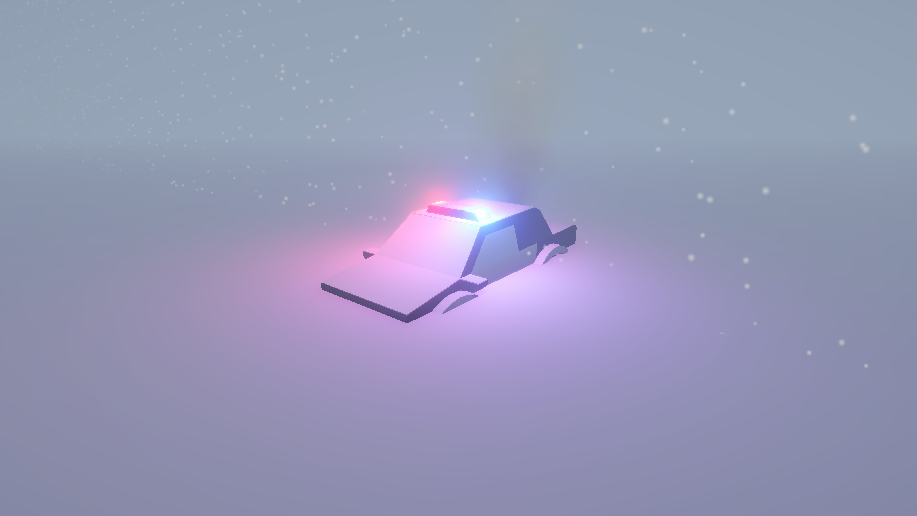
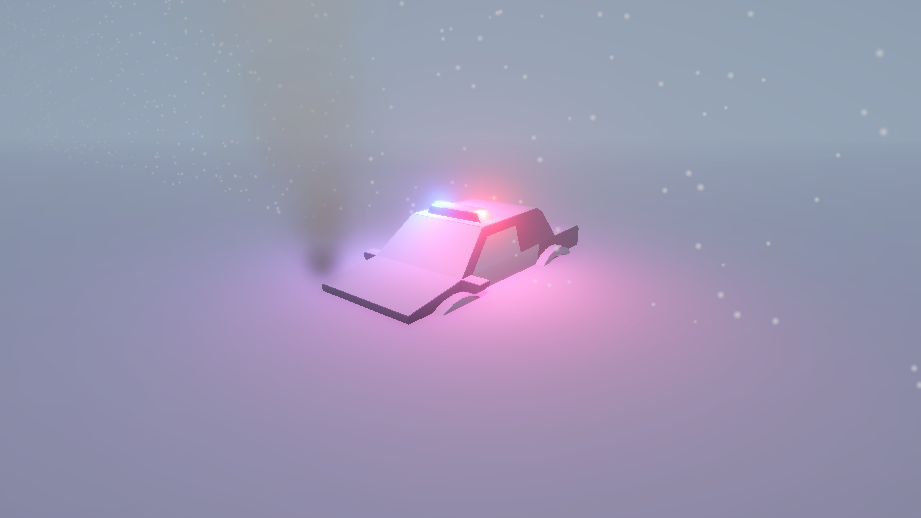
feat: humo del escape al frente y herramienta para ajustarlo
Mueve Exhaust_Smoke al morro (local Z positiva, el coche esta rotado 180) y anade Tools > Humo del escape con posicion, emision, vida, tamano, velocidad, gravedad, cono y presets.

Changed region(s): [[0.4275, 0.2791, 0.7023, 0.6822], [0.3053, 0.3411, 0.4275, 0.5581]]

diff --git a/Assets/Editor/SmokeTool.cs b/Assets/Editor/SmokeTool.cs
@@ -1,0 +1,208 @@
+using UnityEditor;
+using UnityEngine;
+
+/// <summary>
+/// Ventana para ajustar el humo del escape (Police_Car/Exhaust_Smoke) sin tener que
+/// buscar los modulos del ParticleSystem en el Inspector.
+/// Los cambios se ven en vivo en la Scene/Game y se guardan con Ctrl+S.
+/// </summary>
+public class SmokeTool : EditorWindow
+{
+    private const string SmokePath = "Police_Car/Exhaust_Smoke";
+
+    // Posicion local respecto a Police_Car
+    private Vector3 localPosition = new Vector3(0.5f, 0.95f, 1.9f);
+
+    // Modulo Main
+    private float lifetimeMin = 2.5f;
+    private float lifetimeMax = 4f;
+    private float sizeMin = 0.6f;
+    private float sizeMax = 1.2f;
+    private float speedMin = 0.2f;
+    private float speedMax = 0.6f;
+    private float gravity = -0.06f;
+    private Color startColor = Color.white;
+
+    // Emision
+    private float rateOverTime = 18f;
+
+    // Forma (cono)
+    private float coneAngle = 15f;
+    private float coneRadius = 0.08f;
+
+    private bool systemEnabled = true;
+    private string status = "";
+
+    [MenuItem("Tools/Humo del escape")]
+    public static void Open()
+    {
+        GetWindow<SmokeTool>("Humo del escape");
+    }
+
+    private void OnEnable()
+    {
+        Load();
+    }
+
+    private ParticleSystem FindSmoke()
+    {
+        GameObject go = GameObject.Find(SmokePath);
+        return go != null ? go.GetComponent<ParticleSystem>() : null;
+    }
+
+    private void Load()
+    {
+        ParticleSystem ps = FindSmoke();
+        if (ps == null)
+        {
+            status = "No se encontro " + SmokePath;
+            return;
+        }
+
+        localPosition = ps.transform.localPosition;
+
+        ParticleSystem.MainModule main = ps.main;
+        lifetimeMin = main.startLifetime.constantMin;
+        lifetimeMax = main.startLifetime.constantMax;
+        sizeMin = main.startSize.constantMin;
+        sizeMax = main.startSize.constantMax;
+        speedMin = main.startSpeed.constantMin;
+        speedMax = main.startSpeed.constantMax;
+        gravity = main.gravityModifier.constant;
+        startColor = main.startColor.color;
+        systemEnabled = main.playOnAwake;
+
+        rateOverTime = ps.emission.rateOverTime.constant;
+
+        ParticleSystem.ShapeModule shape = ps.shape;
+        coneAngle = shape.angle;
+        coneRadius = shape.radius;
+
+        status = "Valores cargados desde la escena.";
+    }
+
+    private void OnGUI()
+    {
+        EditorGUILayout.LabelField("Humo del escape", EditorStyles.boldLabel);
+        EditorGUILayout.HelpBox(
+            "Ajusta los valores y pulsa 'Aplicar'. Se ve en vivo en la Scene/Game.\n" +
+            "Guarda la escena con Ctrl+S cuando termines.",
+            MessageType.Info);
+
+        EditorGUILayout.Space();
+        EditorGUILayout.LabelField("Posicion (local respecto a Police_Car)", EditorStyles.boldLabel);
+        localPosition = EditorGUILayout.Vector3Field("Posicion", localPosition);
+        using (new EditorGUILayout.HorizontalScope())
+        {
+            if (GUILayout.Button("Frente del coche")) localPosition = new Vector3(0.5f, 0.95f, 1.9f);
+            if (GUILayout.Button("Parte trasera")) localPosition = new Vector3(0.55f, 0.7f, -2.25f);
+        }
+
+        EditorGUILayout.Space();
+        EditorGUILayout.LabelField("Emision", EditorStyles.boldLabel);
+        rateOverTime = EditorGUILayout.Slider("Particulas por segundo", rateOverTime, 0f, 120f);
+        startColor = EditorGUILayout.ColorField("Color inicial", startColor);
+
+        EditorGUILayout.Space();
+        EditorGUILayout.LabelField("Vida y tamano", EditorStyles.boldLabel);
+        lifetimeMin = EditorGUILayout.Slider("Vida minima", lifetimeMin, 0.2f, 10f);
+        lifetimeMax = EditorGUILayout.Slider("Vida maxima", lifetimeMax, 0.2f, 12f);
+        sizeMin = EditorGUILayout.Slider("Tamano minimo", sizeMin, 0.05f, 3f);
+        sizeMax = EditorGUILayout.Slider("Tamano maximo", sizeMax, 0.05f, 4f);
+
+        EditorGUILayout.Space();
+        EditorGUILayout.LabelField("Movimiento", EditorStyles.boldLabel);
+        speedMin = EditorGUILayout.Slider("Velocidad minima", speedMin, 0f, 5f);
+        speedMax = EditorGUILayout.Slider("Velocidad maxima", speedMax, 0f, 6f);
+        gravity = EditorGUILayout.Slider("Gravedad (negativa = sube)", gravity, -1f, 1f);
+
+        EditorGUILayout.Space();
+        EditorGUILayout.LabelField("Forma (cono)", EditorStyles.boldLabel);
+        coneAngle = EditorGUILayout.Slider("Angulo", coneAngle, 0f, 60f);
+        coneRadius = EditorGUILayout.Slider("Radio", coneRadius, 0f, 1f);
+
+        EditorGUILayout.Space();
+        systemEnabled = EditorGUILayout.Toggle("Activo al iniciar", systemEnabled);
+
+        EditorGUILayout.Space();
+        if (GUILayout.Button("Aplicar", GUILayout.Height(30)))
+        {
+            status = Apply();
+        }
+
+        using (new EditorGUILayout.HorizontalScope())
+        {
+            if (GUILayout.Button("Preset: ligero"))
+            {
+                rateOverTime = 10f; sizeMin = 0.4f; sizeMax = 0.9f;
+                lifetimeMin = 2f; lifetimeMax = 3f; gravity = -0.05f;
+                status = Apply();
+            }
+            if (GUILayout.Button("Preset: denso"))
+            {
+                rateOverTime = 30f; sizeMin = 0.8f; sizeMax = 1.6f;
+                lifetimeMin = 3f; lifetimeMax = 5f; gravity = -0.08f;
+                status = Apply();
+            }
+        }
+
+        if (GUILayout.Button("Recargar valores de la escena"))
+        {
+            Load();
+            Repaint();
+        }
+
+        EditorGUILayout.Space();
+        if (!string.IsNullOrEmpty(status))
+            EditorGUILayout.HelpBox(status, MessageType.None);
+    }
+
+    /// <summary>Aplica los valores al ParticleSystem y devuelve un mensaje.</summary>
+    public static string ApplyValues(
+        Vector3 position,
+        float rate,
+        Color color,
+        float lifeMin, float lifeMax,
+        float sizeMinV, float sizeMaxV,
+        float speedMinV, float speedMaxV,
+        float gravityModifier,
+        float angle, float radius,
+        bool playOnAwake)
+    {
+        ParticleSystem ps = GameObject.Find(SmokePath) != null
+            ? GameObject.Find(SmokePath).GetComponent<ParticleSystem>()
+            : null;
+        if (ps == null) return "No se encontro " + SmokePath;
+
+        Undo.RecordObject(ps.transform, "Ajustar humo");
+        ps.transform.localPosition = position;
+
+        Undo.RecordObject(ps, "Ajustar humo");
+        ParticleSystem.MainModule main = ps.main;
+        main.startLifetime = new ParticleSystem.MinMaxCurve(Mathf.Min(lifeMin, lifeMax), Mathf.Max(lifeMin, lifeMax));
+        main.startSize = new ParticleSystem.MinMaxCurve(Mathf.Min(sizeMinV, sizeMaxV), Mathf.Max(sizeMinV, sizeMaxV));
+        main.startSpeed = new ParticleSystem.MinMaxCurve(Mathf.Min(speedMinV, speedMaxV), Mathf.Max(speedMinV, speedMaxV));
+        main.gravityModifier = gravityModifier;
+        main.startColor = color;
+        main.playOnAwake = playOnAwake;
+
+        ParticleSystem.EmissionModule emission = ps.emission;
+        emission.rateOverTime = Mathf.Max(0f, rate);
+
+        ParticleSystem.ShapeModule shape = ps.shape;
+        shape.angle = angle;
+        shape.radius = radius;
+
+        EditorUtility.SetDirty(ps);
+        UnityEditor.SceneManagement.EditorSceneManager.MarkSceneDirty(ps.gameObject.scene);
+        return "Aplicado. Recuerda guardar con Ctrl+S.";
+    }
+
+    private string Apply()
+    {
+        return ApplyValues(
+            localPosition, rateOverTime, startColor,
+            lifetimeMin, lifetimeMax, sizeMin, sizeMax,
+            speedMin, speedMax, gravity, coneAngle, coneRadius, systemEnabled);
+    }
+}

diff --git a/README.md b/README.md
@@ -70,6 +70,21 @@ Para cambiarla: **Tools → Nieve del coche** y mueve los valores:
 
 Pulsa **Regenerar nieve** para reconstruir la malla (también hay un botón para quitarla).
 
+## Ajustar el humo del escape
+
+**Tools → Humo del escape**. La ventana lee los valores actuales y los aplica en vivo:
+
+| Parámetro | Qué hace |
+|---|---|
+| Posición | Punto de emisión local respecto a `Police_Car` (botones *Frente* / *Parte trasera*) |
+| Partículas por segundo | Densidad del humo |
+| Color inicial | Tinte base (el degradado va en Color over Lifetime) |
+| Vida / Tamaño | Rangos mínimo y máximo |
+| Velocidad / Gravedad | Con gravedad negativa el humo sube |
+| Ángulo / Radio | Apertura del cono |
+
+Incluye presets **ligero** y **denso**, y un botón para recargar los valores de la escena.
+
 ## Autor
 
 Juan Pablo Ante — Taller de Laboratorio, Desarrollo de Videojuegos.
